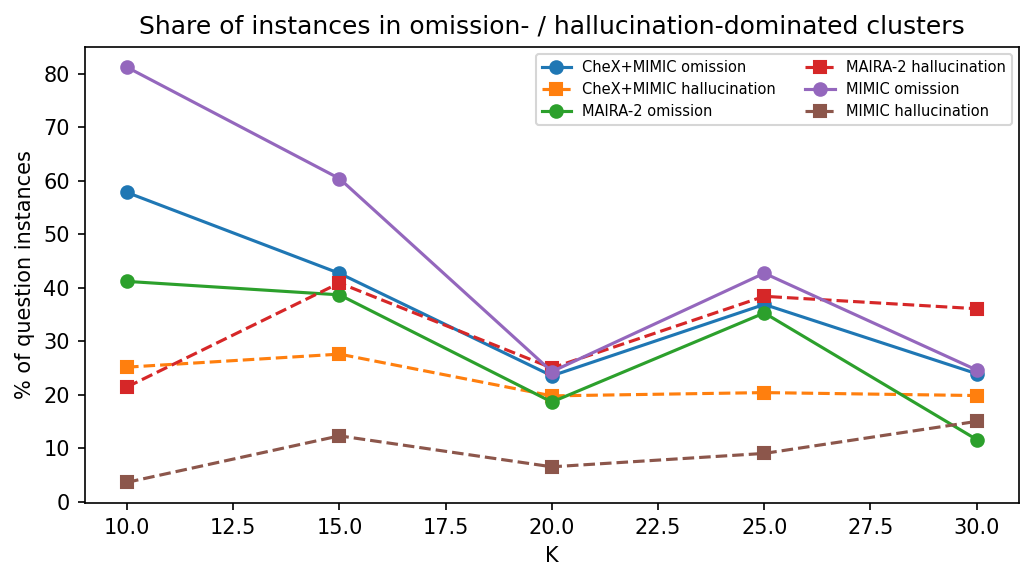
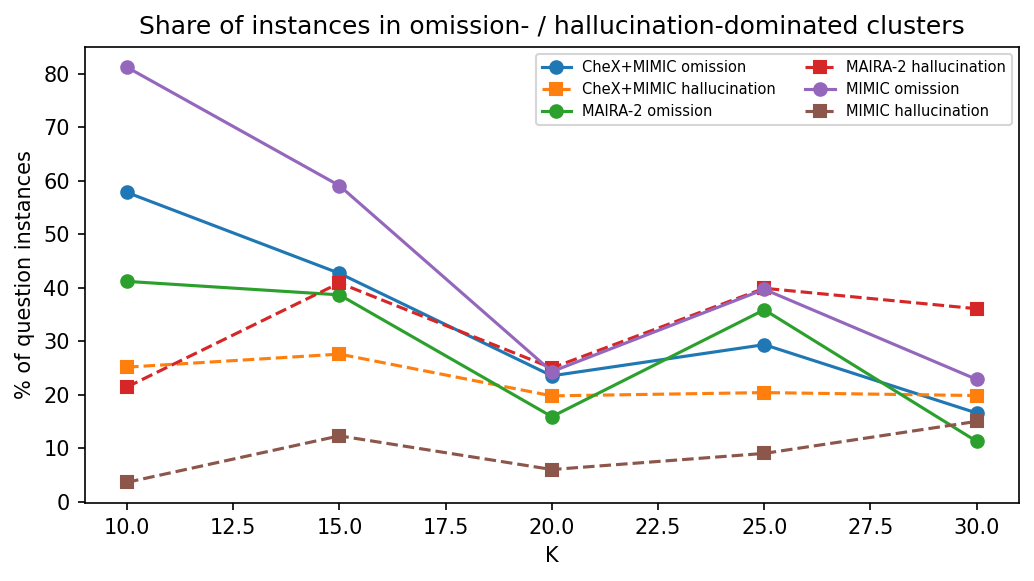
Update Exp 4/5 summaries and figures from full bootstrap runs

diff --git a/results/revision_r2/exp4/summary.md b/results/revision_r2/exp4/summary.md
@@ -16,7 +16,7 @@
 
 ### Calcified Granuloma Location
 - K=10: matched cluster **3** (share=0.621); labels: chexpert-mimic-cxr-findings-baseline: omission-dominated; maira-2: omission-dominated; mimic-cxr-findings-baseline: omission-dominated
-- K=15: matched cluster **13** (share=0.894); labels: chexpert-mimic-cxr-findings-baseline: balanced; maira-2: balanced; mimic-cxr-findings-baseline: omission-dominated
+- K=15: matched cluster **13** (share=0.894); labels: chexpert-mimic-cxr-findings-baseline: balanced; maira-2: balanced; mimic-cxr-findings-baseline: balanced
 - K=20: matched cluster **13** (share=1.000); labels: chexpert-mimic-cxr-findings-baseline: balanced; maira-2: balanced; mimic-cxr-findings-baseline: balanced
 - K=25: matched cluster **4** (share=0.898); labels: chexpert-mimic-cxr-findings-baseline: balanced; maira-2: balanced; mimic-cxr-findings-baseline: balanced
 - K=30: matched cluster **10** (share=0.863); labels: chexpert-mimic-cxr-findings-baseline: balanced; maira-2: balanced; mimic-cxr-findings-baseline: balanced
@@ -24,25 +24,25 @@
 ## Consistency (a)–(c) per K
 
 - K=10 chexpert-mimic-cxr-findings-baseline: (a) label-match=50.0% (b) Spearman=0.4842105263157894 (c) omission=57.8% hallucination=25.1%
-- K=10 maira-2: (a) label-match=55.0% (b) Spearman=0.5804511278195488 (c) omission=41.2% hallucination=21.4%
+- K=10 maira-2: (a) label-match=50.0% (b) Spearman=0.5804511278195488 (c) omission=41.2% hallucination=21.4%
 - K=10 mimic-cxr-findings-baseline: (a) label-match=55.0% (b) Spearman=0.6541353383458646 (c) omission=81.2% hallucination=3.6%
 - K=15 chexpert-mimic-cxr-findings-baseline: (a) label-match=65.0% (b) Spearman=0.6977443609022556 (c) omission=42.7% hallucination=27.6%
-- K=15 maira-2: (a) label-match=60.0% (b) Spearman=0.6947368421052631 (c) omission=38.6% hallucination=40.9%
-- K=15 mimic-cxr-findings-baseline: (a) label-match=55.0% (b) Spearman=0.7894736842105263 (c) omission=60.4% hallucination=12.3%
+- K=15 maira-2: (a) label-match=55.0% (b) Spearman=0.6947368421052631 (c) omission=38.6% hallucination=40.9%
+- K=15 mimic-cxr-findings-baseline: (a) label-match=60.0% (b) Spearman=0.7894736842105263 (c) omission=59.1% hallucination=12.3%
 - K=20 chexpert-mimic-cxr-findings-baseline: (a) label-match=100.0% (b) Spearman=1.0 (c) omission=23.5% hallucination=19.8%
-- K=20 maira-2: (a) label-match=100.0% (b) Spearman=1.0 (c) omission=18.6% hallucination=25.0%
-- K=20 mimic-cxr-findings-baseline: (a) label-match=100.0% (b) Spearman=1.0 (c) omission=24.3% hallucination=6.5%
-- K=25 chexpert-mimic-cxr-findings-baseline: (a) label-match=70.0% (b) Spearman=0.7609022556390977 (c) omission=36.9% hallucination=20.4%
-- K=25 maira-2: (a) label-match=50.0% (b) Spearman=0.8646616541353382 (c) omission=35.3% hallucination=38.4%
-- K=25 mimic-cxr-findings-baseline: (a) label-match=70.0% (b) Spearman=0.7503759398496239 (c) omission=42.7% hallucination=9.0%
-- K=30 chexpert-mimic-cxr-findings-baseline: (a) label-match=90.0% (b) Spearman=nan (c) omission=23.9% hallucination=19.8%
-- K=30 maira-2: (a) label-match=60.0% (b) Spearman=nan (c) omission=11.6% hallucination=36.1%
-- K=30 mimic-cxr-findings-baseline: (a) label-match=90.0% (b) Spearman=nan (c) omission=24.6% hallucination=15.0%
+- K=20 maira-2: (a) label-match=100.0% (b) Spearman=1.0 (c) omission=15.9% hallucination=25.0%
+- K=20 mimic-cxr-findings-baseline: (a) label-match=100.0% (b) Spearman=1.0 (c) omission=24.3% hallucination=6.0%
+- K=25 chexpert-mimic-cxr-findings-baseline: (a) label-match=65.0% (b) Spearman=0.7609022556390977 (c) omission=29.3% hallucination=20.4%
+- K=25 maira-2: (a) label-match=45.0% (b) Spearman=0.8646616541353382 (c) omission=35.9% hallucination=39.9%
+- K=25 mimic-cxr-findings-baseline: (a) label-match=70.0% (b) Spearman=0.7503759398496239 (c) omission=39.7% hallucination=9.0%
+- K=30 chexpert-mimic-cxr-findings-baseline: (a) label-match=85.0% (b) Spearman=nan (c) omission=16.6% hallucination=19.8%
+- K=30 maira-2: (a) label-match=55.0% (b) Spearman=nan (c) omission=11.2% hallucination=36.1%
+- K=30 mimic-cxr-findings-baseline: (a) label-match=95.0% (b) Spearman=nan (c) omission=22.8% hallucination=15.0%
 
 ## Correspondence vs K=20
 
 - K=10: ARI=0.5281; mean best-match share=0.8466
-- K=15: ARI=0.7171; mean best-match share=0.8403
+- K=15: ARI=0.7173; mean best-match share=0.8404
 - K=20: ARI=1.0000; mean best-match share=1.0000
 - K=25: ARI=0.7279; mean best-match share=0.7807
 - K=30: ARI=0.7372; mean best-match share=0.7635

diff --git a/results/revision_r2/exp5/summary.md b/results/revision_r2/exp5/summary.md
@@ -6,9 +6,9 @@
 
 ## Label consistency per model
 
-- **chexpert-mimic-cxr-findings-baseline**: 75.0% clusters same label in all 5 seeds (size-weighted 78.0%). Lung Lobe Abnormality same=1; Calcified Granuloma Location same=1.
-- **maira-2**: 55.0% clusters same label in all 5 seeds (size-weighted 61.2%). Lung Lobe Abnormality same=1; Calcified Granuloma Location same=1.
-- **mimic-cxr-findings-baseline**: 65.0% clusters same label in all 5 seeds (size-weighted 63.2%). Lung Lobe Abnormality same=1; Calcified Granuloma Location same=1.
+- **chexpert-mimic-cxr-findings-baseline**: 85.0% clusters same label in all 5 seeds (size-weighted 84.4%). Lung Lobe Abnormality same=1; Calcified Granuloma Location same=1.
+- **maira-2**: 50.0% clusters same label in all 5 seeds (size-weighted 50.1%). Lung Lobe Abnormality same=1; Calcified Granuloma Location same=1.
+- **mimic-cxr-findings-baseline**: 70.0% clusters same label in all 5 seeds (size-weighted 64.9%). Lung Lobe Abnormality same=1; Calcified Granuloma Location same=1.
 
 ## Tracked concepts across seeds
 
